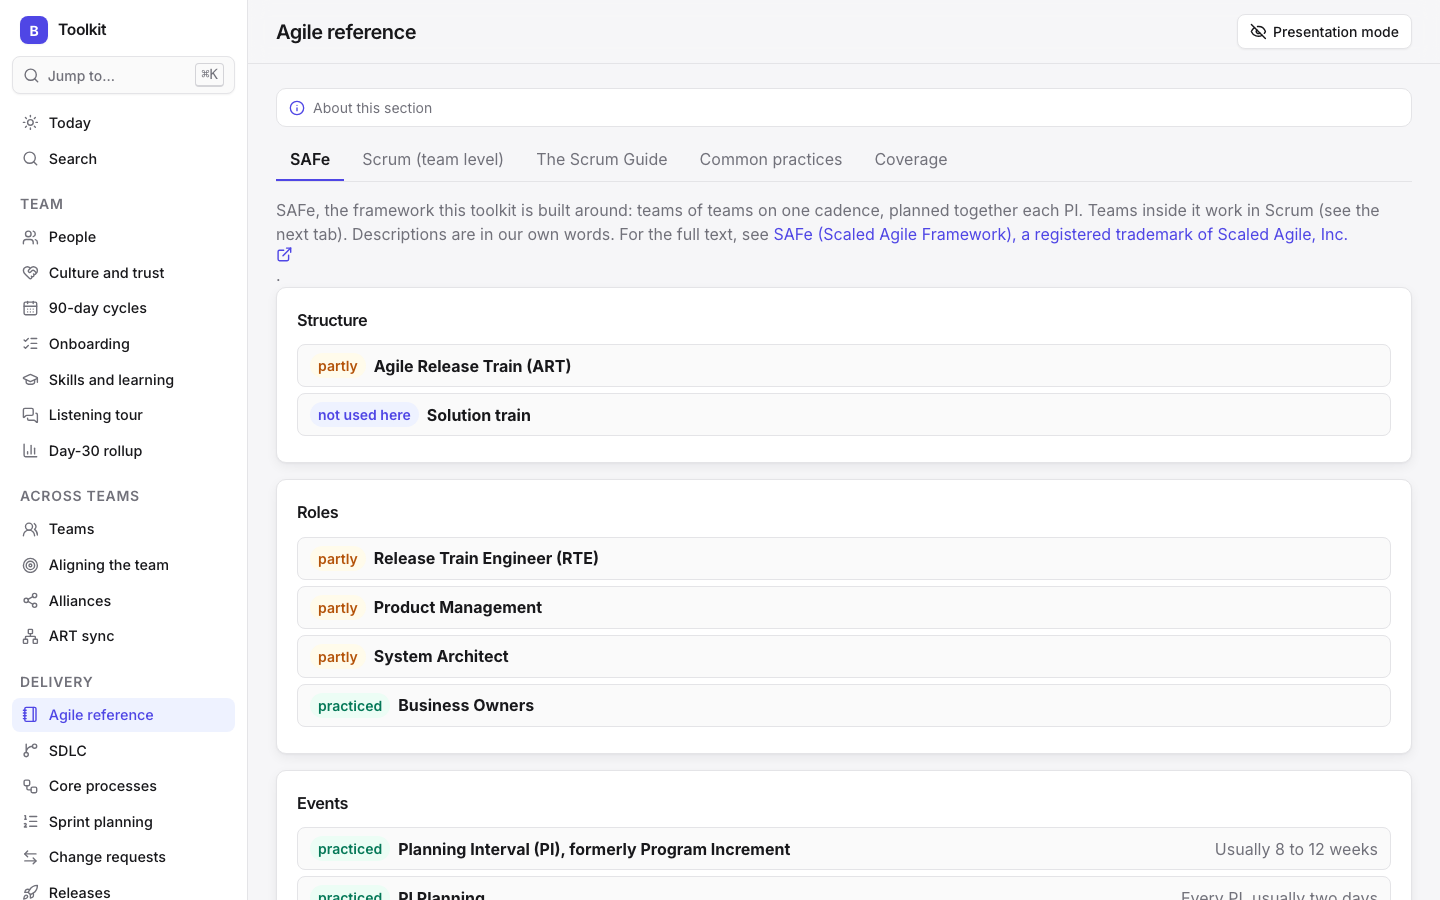
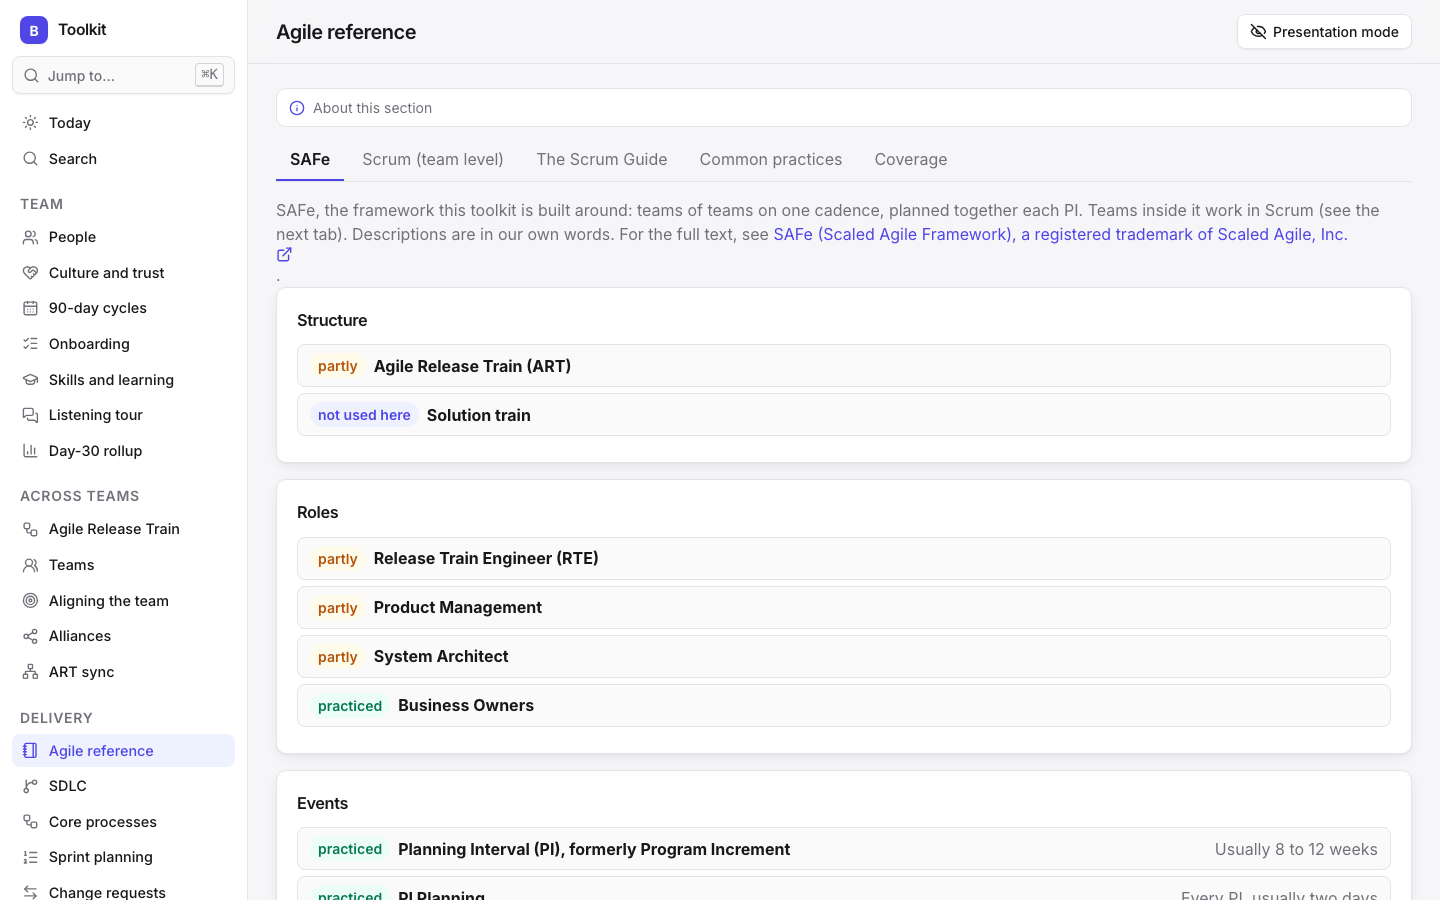
Retake the README screenshots and add the train and sprint review
All toolkit screenshots retaken from fresh demo data, so the sidebar
shows the Agile Release Train page and 90-day cycles follow the PI. Two
new ones: the ART backlog ranked by WSJF, and the sprint review panel.
The demo data now adds the review feedback after backlog refinement, so
it waits to be refined.

diff --git a/scripts/demo_data.py b/scripts/demo_data.py
@@ -137,6 +137,7 @@ if DB:
     conn.commit()
     conn.close()
 api("POST", f"/api/sprint-planning/{sprints[1]}/close", {})
+api("PUT", "/api/planning/product-goal", {"text": "[Placeholder product goal]"})
 
 # ---- the sprint backlog beside Jira: refined, estimated, four stories pulled into the current sprint
 api("POST", "/api/backlog/paste", {"text": "\n".join(f"ABC-{120 + n} [Placeholder backlog story {n}] | {(3, 5, 2, 8, 3, 5, 3, 2)[n - 1]}" for n in range(1, 9))})
@@ -147,6 +148,9 @@ for k, item in enumerate(items):
         api("PATCH", f"/api/backlog-items/{item['id']}", {"status": "ready"})
     if k < 4:
         api("POST", f"/api/sprint-planning/{sprints[2]}/pull", {"item_id": item["id"]})
+
+# the Sprint 1 review's feedback, added after the backlog is refined so it waits to be refined itself
+api("POST", f"/api/sprint-planning/{sprints[1]}/review/feedback", {"text": "[Placeholder stakeholder request from the review]", "from": "[Name 4]"})
 
 # ---- the Agile Release Train: roles, the team, the PI, and an ART backlog scored by WSJF
 art = api("POST", "/api/arts", {"name": "[Placeholder train]", "mission": "[Placeholder train mission]", "rte_id": p(1),

diff --git a/README.md b/README.md
@@ -24,14 +24,16 @@ https://github.com/user-attachments/assets/f906cc07-34af-40fc-9b03-c959b42b93e9
 
 | | |
 | --- | --- |
-| ![Toolkit: PI planning](docs/images/toolkit-pi-planning.png) | ![Toolkit: weekly report](docs/images/toolkit-weekly-report.png) |
-| **PI planning**: the program board, with features by sprint, points and milestones | **Reports**: a weekly status drafted from what's logged, with a suggested overall status |
-| ![Toolkit: alliances](docs/images/toolkit-alliances.png) | ![Toolkit: 90-day cycles](docs/images/toolkit-cycles.png) |
-| **Alliances**: an influence diagram colored by stance, with the winning alliance | **90-day cycles**: a focus and goals for each cycle, lined up with the PI |
-| ![Toolkit: Agile reference](docs/images/toolkit-agile-reference.png) | ![Toolkit: timed link](docs/images/toolkit-timed-link.png) |
-| **Agile reference**: SAFe first, with how far each part is practiced | **Timed sharing**: a page shared through a link that expires and needs an access code |
-| ![Comms studio: deck builder](docs/images/comms-deck-builder.png) | ![Toolkit: sprint burndown](docs/images/toolkit-burndown.png) |
-| **Comms studio**: the reveal.js deck builder | **Sprint burndown**: points remaining against the ideal line, with scope changes, built from the change log |
+| ![Toolkit: PI planning](docs/images/toolkit-pi-planning.png) | ![Toolkit: Agile Release Train](docs/images/toolkit-art-backlog.png) |
+| **PI planning**: the program board, with features by sprint, points and milestones | **Agile Release Train**: the teams, PIs with predictability, and the ART backlog ranked by WSJF |
+| ![Toolkit: weekly report](docs/images/toolkit-weekly-report.png) | ![Toolkit: sprint burndown](docs/images/toolkit-burndown.png) |
+| **Reports**: a weekly status drafted from what's logged, with a suggested overall status | **Sprint burndown**: points remaining against the ideal line, with scope changes, built from the change log |
+| ![Toolkit: sprint review](docs/images/toolkit-sprint-review.png) | ![Toolkit: alliances](docs/images/toolkit-alliances.png) |
+| **Sprint review**: what's done to show, what isn't, and stakeholder feedback straight onto the backlog | **Alliances**: an influence diagram colored by stance, with the winning alliance |
+| ![Toolkit: 90-day cycles](docs/images/toolkit-cycles.png) | ![Toolkit: Agile reference](docs/images/toolkit-agile-reference.png) |
+| **90-day cycles**: a focus and goals for each cycle, following the PI calendar | **Agile reference**: SAFe first, with how far each part is practiced |
+| ![Toolkit: timed link](docs/images/toolkit-timed-link.png) | ![Comms studio: deck builder](docs/images/comms-deck-builder.png) |
+| **Timed sharing**: a page shared through a link that expires and needs an access code | **Comms studio**: the reveal.js deck builder |
 
 All screenshots use placeholder data (`scripts/demo_data.py`, captured with `scripts/screenshots.py`); every value in brackets is invented.
 
